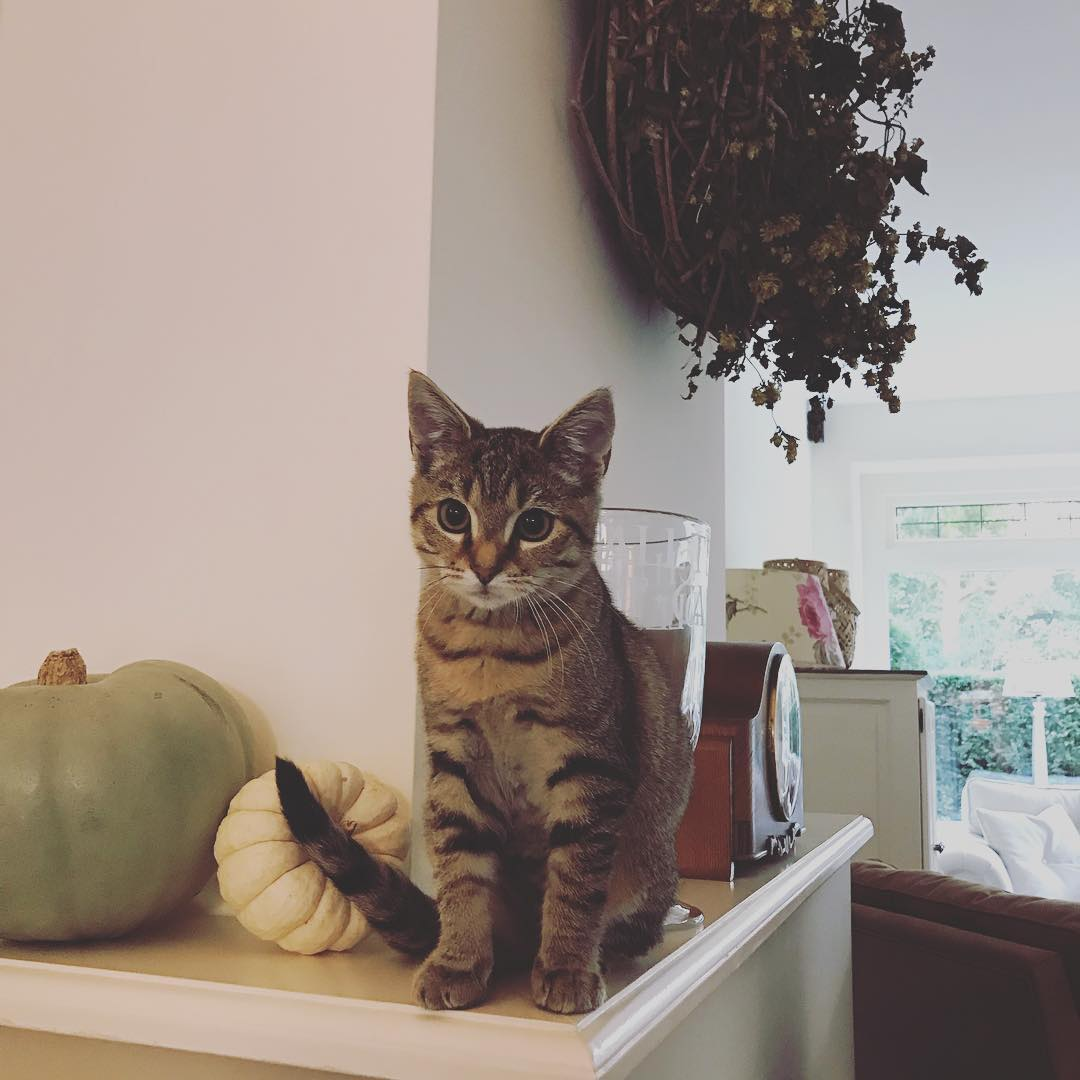
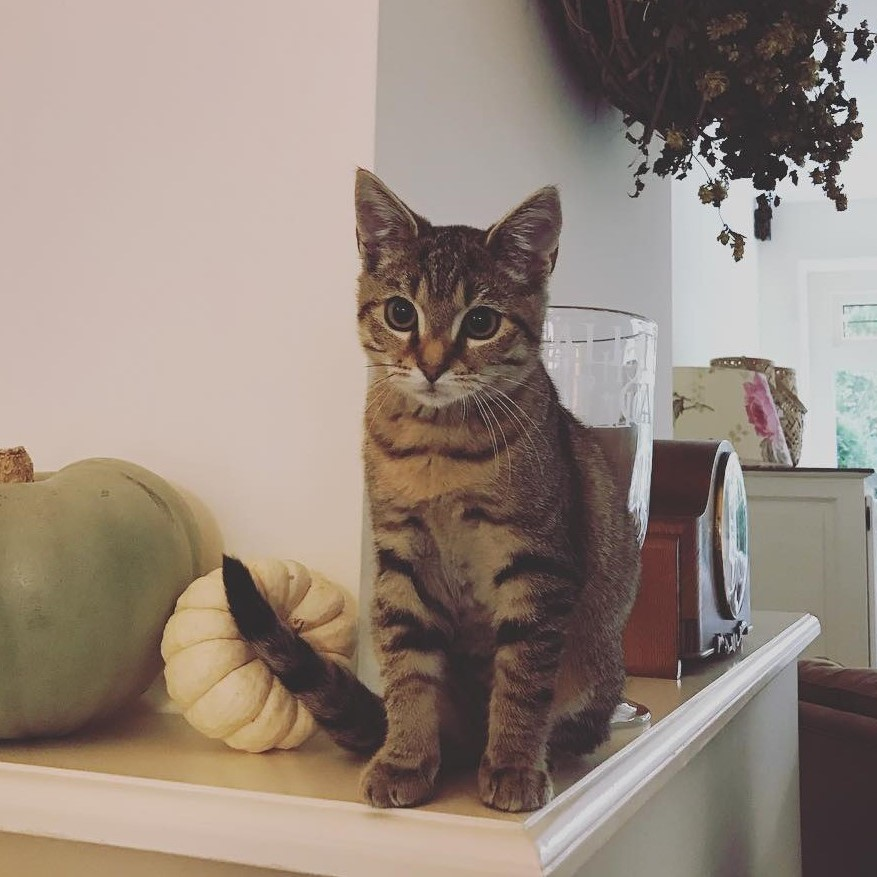
cropped avt, tweaked padding etc

diff --git a/index.html b/index.html
@@ -16,7 +16,7 @@
 	<!-- main elemnent -->
 	<main>
 		<h2>About Tom</h2>
-		<p>Tom is the latest edition to our family.</p>
+		<p>Tom is the latest edition to our family.Tom is the latest edition to our family.Tom is the latest edition to our family.Tom is the latest edition to our family.Tom is the latest edition to our family.Tom is the latest edition to our family...................................................................................................................................................................................................................................................</p>
 		<img src="img/TomBanner.jpg" style="">
     	<p>Tom being cute as always</p>
 
@@ -39,7 +39,7 @@
 
 	<!-- Footer element -->
 	<footer>
-		<h3 rel="link" href="https://www.instagram.com/thetaleoftomkitten/">Instagram</h3>
+		<h3 href="https://www.instagram.com/thetaleoftomkitten/">Instagram</h3>
 		<p>This is Tom's official fan site. &copy; Non existent</p>
 	</footer>
 </body>

diff --git a/css/Tom.css b/css/Tom.css
@@ -26,11 +26,17 @@ header img{
 
 main{
 	max-width: 100%;
-	margin:auto;
+
 }
+
 
 main img{
 	max-width: 100%;
+}
+
+main h2, p{
+	padding-left:  25px;
+	padding-right: 25px;
 }
 
 footer{
